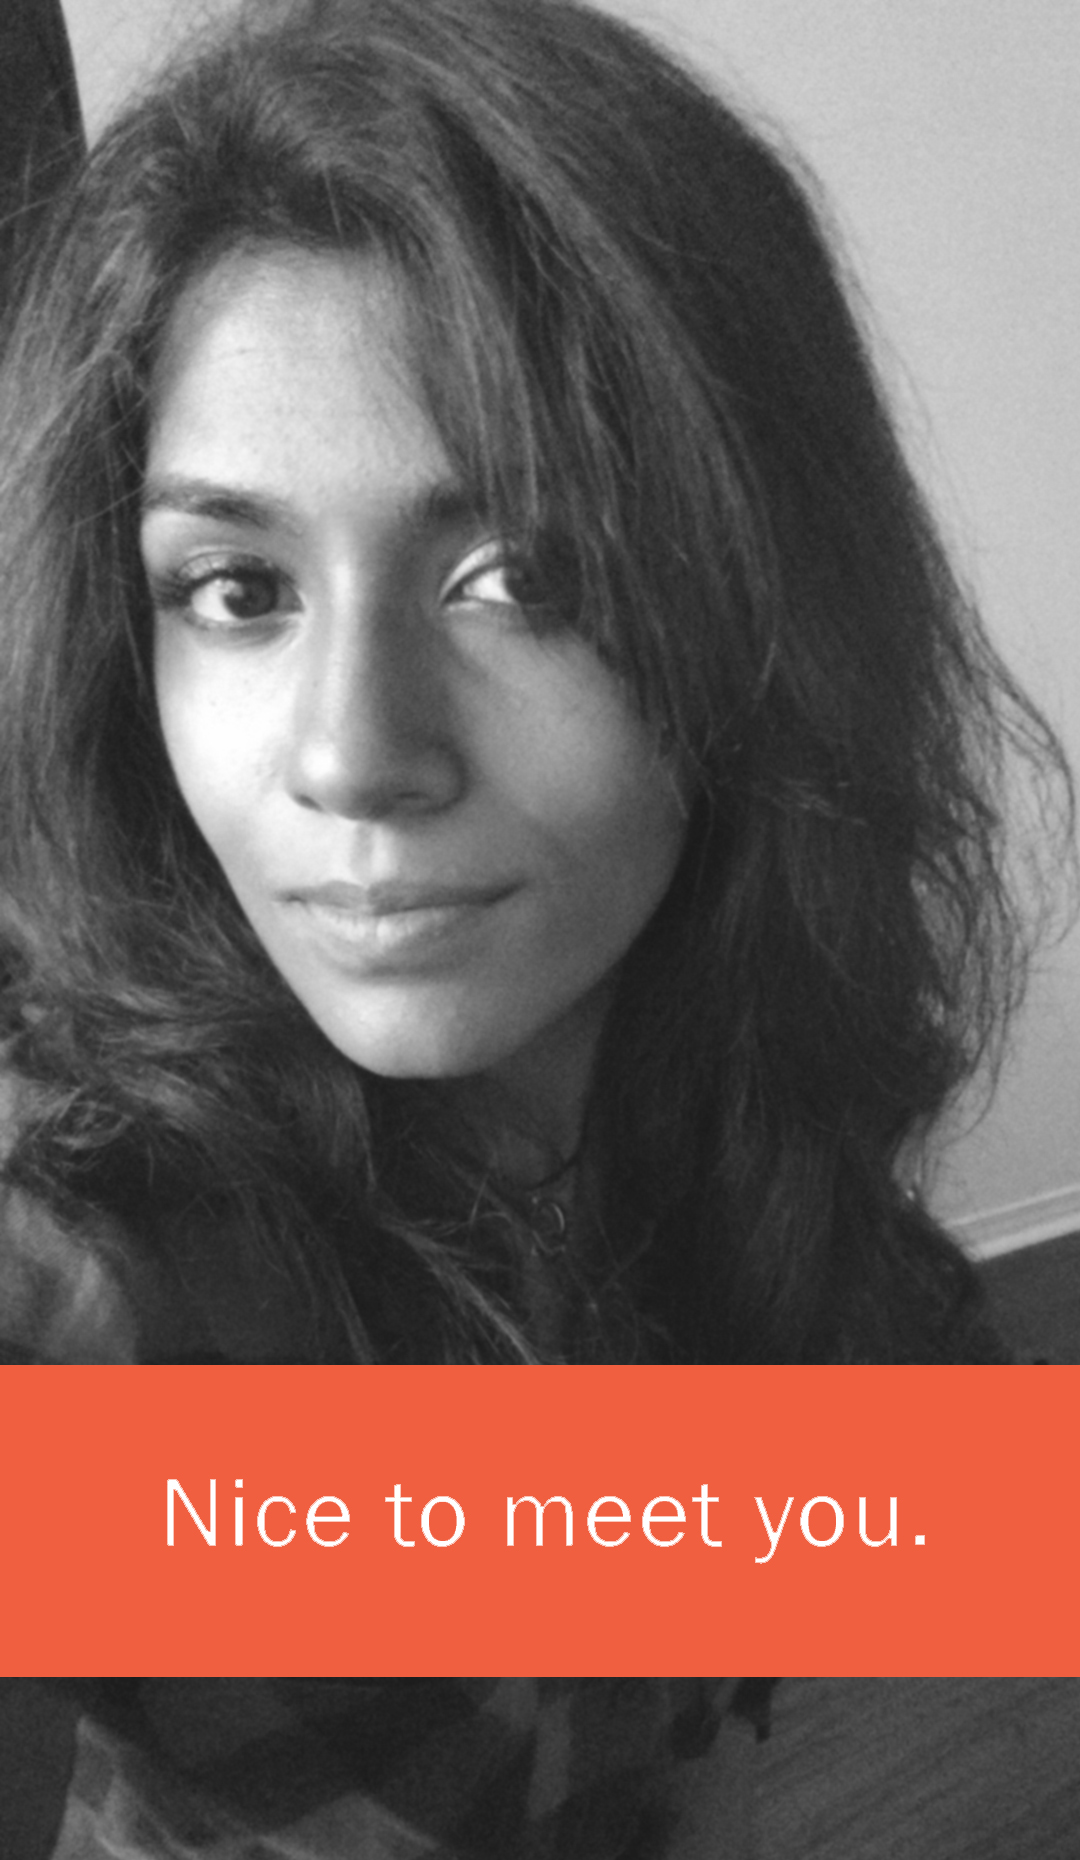
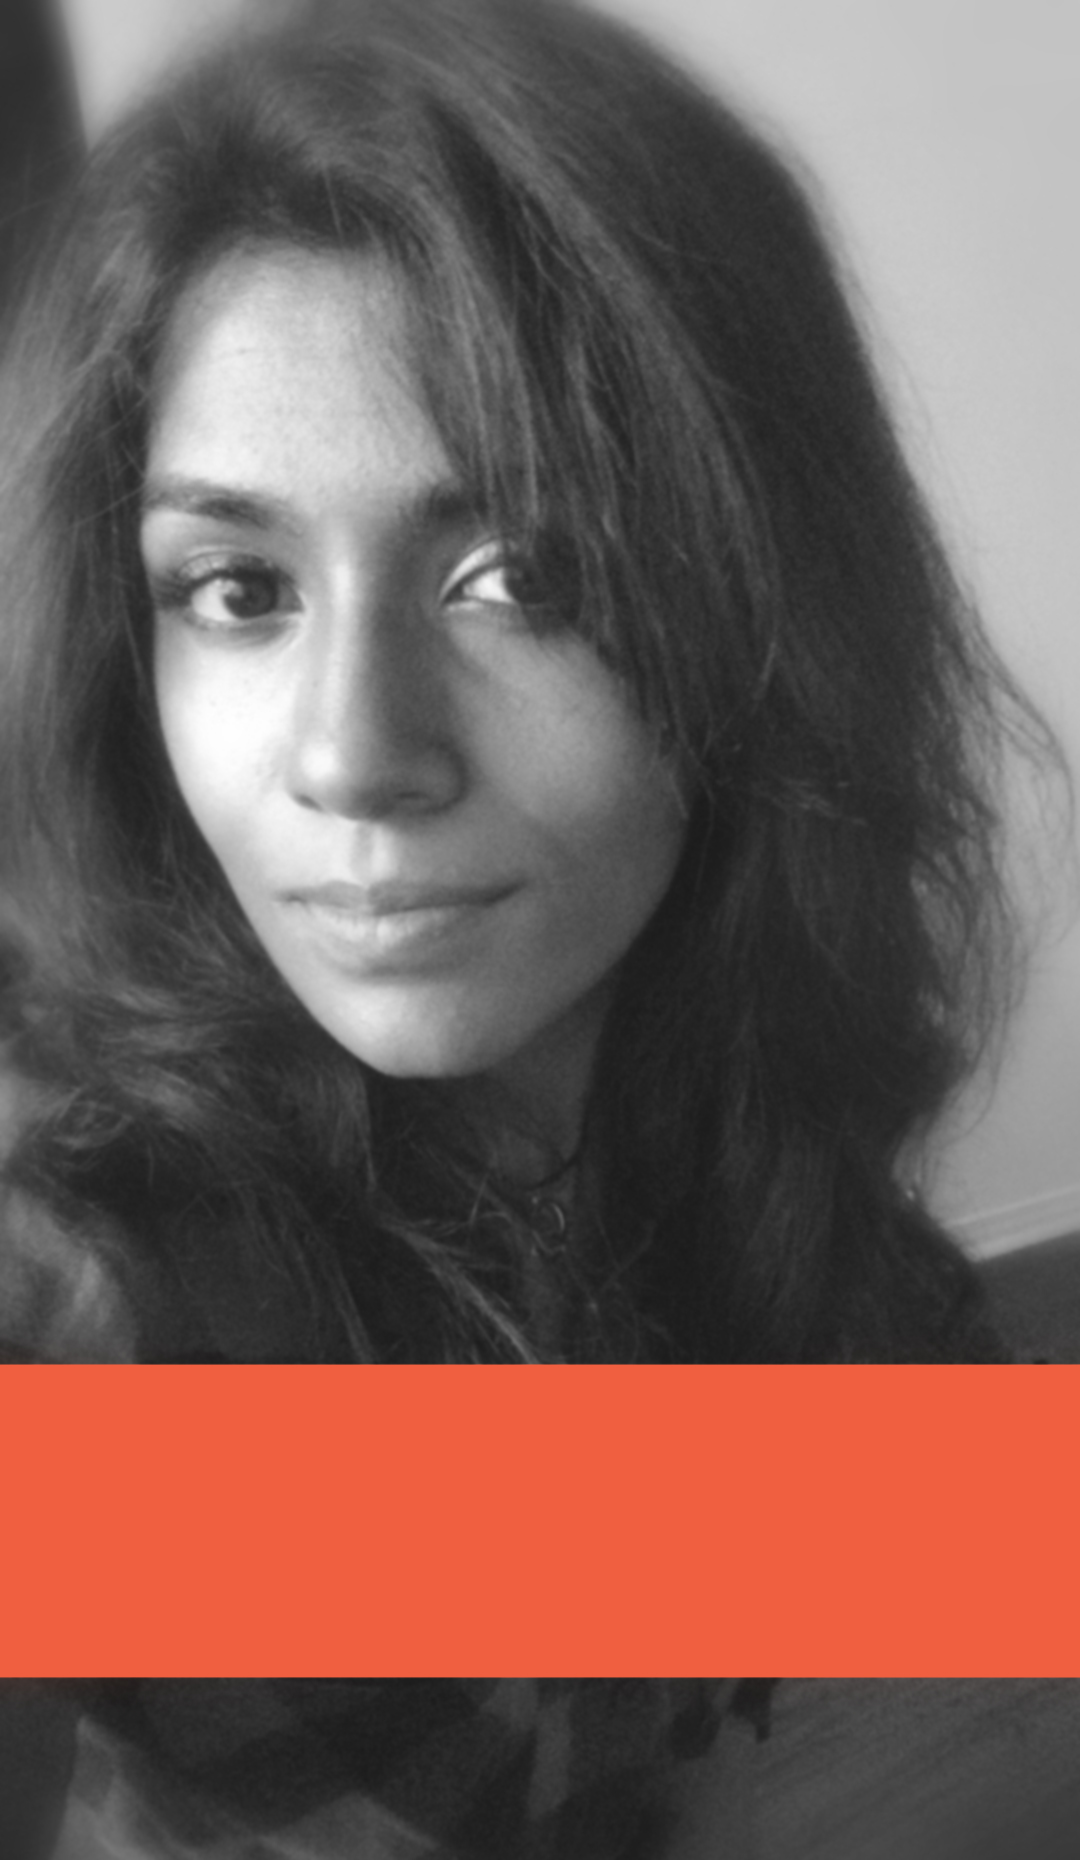
edited about me

diff --git a/index.html b/index.html
@@ -81,11 +81,8 @@
     <header>
         <div class="header-content">
             <div class="header-content-inner">
-				<div class = "nameTitle">
-				<h1>Jessica Nahulan</h1>
-				</div>
 				<div class="animated bounceInLeft">
-                <h2 id="homeHeading" >The notes of an eccentric coding enthusiast </br> <h3>(and a lover of chocolate chip cookies.)</h3> </h21>
+                <h1 id="homeHeading" >The notes of an eccentric coding enthusiast </br> <h3>(and a lover of chocolate chip cookies.)</h3> </h1>
 				</div>
                 <hr>
                 <p>Hi there! My name is Jessica Nahulan, I'm an undergraduate student at Queen's University. On the road to finishing up my Computer Engineering degree, I've found myself completing a 16 month internship at Embross before returning for my final year.</br> ... and here we are.</p>
@@ -99,34 +96,52 @@
         </div>
     </header> 
 
-    <section class="bg-primary" id="about">
-        <div class="container">
-            <div class="row">
-			
-                <div class="col-lg-8 col-lg-offset-2 text-center">
-                    <h2 class="section-heading">"Always code as if the guy who ends up maintaining your code will be a violent psychopath who knows where you live."
-					</br>
-					<span style= text-align:right padding-right:1em> <h4><i>- Martin Golding</i></h4> </span>
-					</br>
-					</h2>
-                    <hr class="light">
-                    <p class="text-faded">If that quote doesn't inspire greatness, I don't know what does. (Or at the very least, perhaps, inspire impecable coding habbits? Who does not love consistent indentation and documentation xml comments</p>
-                   <!-- <a href="#services" class="page-scroll btn btn-default btn-xl sr-button">Moving on.</a> -->
-                </div>
-            </div>
-			
-			<div class="container-ball" id ="ballzContains">			
-			  <div id="ballz1"></div>
-			  <div id="ballz2"></div>
-			  <div id="ballz3"></div>
-			  <div id="ballz4"></div>
-			  <div id="ballz5"></div>
-			  <div id="ballz6"></div>
-			  <div id="ballz7"></div>			
+    <div class="bg-primary" id="about">
+	
+        <!--<div class="container">-->
+         <div class="row">
+			<div class = "col-xs-3 col-sm-3">
+			<div><span><img src="img/self-portrait1.jpg" style="width:90%; align:left;position: relative; align:right;"></span></div>
+			<div><span><h1 id="portraitText" style="position:relative; visibility:hidden; marg; margin-bottom:1em; margin-right:1em;">Nice to meet you.</h1></span></div>
+			<div><span><img src="img/self-portrait3.jpg" style="width:90%; align:left;position: relative; align:right;"></span></div>
+			</div>			
+			<section>
+			<div class = "col-xs-9 col-sm-9">
+				<div>
+					<div class="col-lg-12 col-lg-offset-0 text-left">
+						<h1 class="section-heading">Me?
+						</br>
+						</br>
+						</h1>
+						<div class="hrAbout col-lg-12 light"> </div>
+						</br></br>
+						<h3 class="text-faded">I'm a soon to be computer engineer, living in the oh so small town of Kingston, Ontario, Canada.</br></br>
+						I specialize in software, with a lot of experience working as a full stack developer.</br></br>
+						Fluent in C++, C#, C, Java, HTML5, CSS3, javascript and improving on my PHP, SQL, jQuery, and python every day.</br></br>
+						I have a knack for adapting to new APIs and SDKs which I acquired through taking on various side projects.</br></br>
+						Currently in my spare time, I've been learning more about machine learning, unity, and Google's new DayDream VR.</br></br>
+						When I'm not programming, you can usually find me at the gym or painting digital artworks with my tablet. (I love art.)
+					   <!-- <a href="#services" class="page-scroll btn btn-default btn-xl sr-button">Moving on.</a> -->
+					   </div>
+					   <div class="col-lg-12 col-lg-offset-0 text-left">
+						<div class="container-ball" id ="ballzContains">			
+						  <div id="ballz1"></div>
+						  <div id="ballz2"></div>
+						  <div id="ballz3"></div>
+						  <div id="ballz4"></div>
+						  <div id="ballz5"></div>
+						  <div id="ballz6"></div>
+						  <div id="ballz7"></div>			
+						</div>
+					</div>					
+				</div>
+			<!---balls were here--->
+			</section>
 			</div>
-        </div>
-		<span><img src="img/self-portrait.jpg" style="width:16.3%; display:inline-block; align:left; top:64.5em; position: absolute;"></span>
-    </section>
+		</div>
+   <!--     </div>-->
+		
+    </div>
 	
 <!---
 	<div class="bg-interactive">
@@ -149,54 +164,11 @@
 	</div>	--->
 	
 	<div class="bg-interactive-blank"></div>
+	
 	<!--
 	<div class="col-lg-8 col-lg-offset-2 text-center">
 		<a href="#services"  class="page-scroll btn btn-default btn-lower btn-xl sr-button">Moving on.</a>
 	</div>-->
-    <section id="services">
-        <div class="container">
-            <div class="row">
-                <div class="col-lg-12 text-center">
-                    <h2 class="section-heading">At Your Service</h2>
-                    <hr class="primary">
-                </div>
-            </div>
-        </div>
-        <div class="container">
-            <div class="row">
-                <div class="col-lg-3 col-md-6 text-center">
-                    <div class="service-box">
-                        <i class="fa fa-4x fa-code text-primary sr-icons"></i>
-                        <h3>Github Repository</h3>
-                        <p class="text-muted">View my code repository to see what I've been working on.</p>
-                    </div>
-                </div>
-                <div class="col-lg-3 col-md-6 text-center">
-                    <div class="service-box">
-                        <i class="fa fa-4x fa-laptop text-primary sr-icons"></i>
-                        <h3>FaceBook</h3>
-                        <p class="text-muted">Responsive Design</p>
-                    </div>
-                </div>
-                <div class="col-lg-3 col-md-6 text-center">
-                    <div class="service-box">
-                        <i class="fa fa-4x fa-linkedin-square text-primary sr-icons"></i>
-                        <h3>Linkedin</h3>
-                        <p class="text-muted">Connect on linkedin.</p>
-                    </div>
-                </div>
-                <div class="col-lg-3 col-md-6 text-center">
-                    <div class="service-box">
-                     <!---   <i class="fa fa-4x fa-heart text-primary sr-icons"></i> --->
-                        <i class="fa fa-lock fa-4x fa-inverse sr-icons text-primary"></i>
-                        <h3>Web Security</h3>
-                        <p class="text-muted">You have to make your websites with love these days!</p>
-                    </div>
-                </div>
-            </div>
-        </div>
-    </section>
-
 	
 	    <!-- Portfolio Grid Section -->
     <section id="portfolio" class="bg-light-gray">
@@ -479,6 +451,51 @@
         </div>
     </div>
 	
+	
+    <section id="services">
+        <div class="container">
+            <div class="row">
+                <div class="col-lg-12 text-center">
+                    <h2 class="section-heading">Art means so much to me.</h2>
+                    <hr class="primary">
+                </div>
+            </div>
+        </div><!---
+        <div class="container">
+            <div class="row">
+                <div class="col-lg-3 col-md-6 text-center">
+                    <div class="service-box">
+                        <i class="fa fa-4x fa-code text-primary sr-icons"></i>
+                        <h3>Github Repository</h3>
+                        <p class="text-muted">View my code repository to see what I've been working on.</p>
+                    </div>
+                </div>
+                <div class="col-lg-3 col-md-6 text-center">
+                    <div class="service-box">
+                        <i class="fa fa-4x fa-laptop text-primary sr-icons"></i>
+                        <h3>FaceBook</h3>
+                        <p class="text-muted">Responsive Design</p>
+                    </div>
+                </div>
+                <div class="col-lg-3 col-md-6 text-center">
+                    <div class="service-box">
+                        <i class="fa fa-4x fa-linkedin-square text-primary sr-icons"></i>
+                        <h3>Linkedin</h3>
+                        <p class="text-muted">Connect on linkedin.</p>
+                    </div>
+                </div>
+                <div class="col-lg-3 col-md-6 text-center">
+                    <div class="service-box">
+                     <!---   <i class="fa fa-4x fa-heart text-primary sr-icons"></i> --->
+    <!--                    <i class="fa fa-lock fa-4x fa-inverse sr-icons text-primary"></i>
+                        <h3>Web Security</h3>
+                        <p class="text-muted">You have to make your websites with love these days!</p>
+                    </div>
+                </div>
+            </div>
+        </div> --->
+    </section>
+	
 	<!---
     <section class="no-padding" id="portfolio">
         <div class="container-fluid">
@@ -555,6 +572,24 @@
             </div>
         </div>
     </aside>
+	
+	    <section class="bg-primary" id="about">
+        <div class="container">
+            <div class="row">
+			
+                <div class="col-lg-8 col-lg-offset-2 text-center">
+                    <h2 class="section-heading">"Always code as if the guy who ends up maintaining your code will be a violent psychopath who knows where you live."
+					</br>
+					<span style= text-align:right padding-right:1em> <h4><i>- Martin Golding</i></h4> </span>
+					</br>
+					</h2>
+                    <hr class="light">
+                    <p class="text-faded">If that quote doesn't inspire greatness, I don't know what does. (Or at the very least, perhaps, inspire impecable coding habbits? Who does not love consistent indentation and documentation comments?)</p>
+                </div>
+            </div>
+        </div>
+		<!--<span><img src="img/self-portrait.jpg" style="width:16.3%; display:inline-block; align:left; top:64.5em; position: absolute;"></span>--->
+    </section>
 
     <section id="contact">
         <div class="container">
@@ -564,14 +599,34 @@
                     <hr class="primary">
                     <p>I'd love to hear from you.</p>
                 </div>
-                <div class="col-lg-4 col-lg-offset-2 text-center">
-                    <i class="fa fa-phone fa-3x sr-contact"></i>
-                    <p>123-456-6789</p>
+                <div class="col-lg-4 col-md-6 text-center">
+					<a href="https://github.com/JessNah" style="color:black" target="_blank">
+						<div class="service-box">
+							<i class="fa fa-4x fa-code text-primary sr-icons" ></i>
+							<h3>Github Repository</h3>
+							<p class="text-muted">View my code repository to see what I've been working on.</p>
+						</div>
+					</a>
                 </div>
-                <div class="col-lg-4 text-center">
-                    <i class="fa fa-envelope-o fa-3x sr-contact"></i>
-                    <p><a href="mailto:your-email@your-domain.com">feedback@startbootstrap.com</a></p>
+                <div class="col-lg-4 col-md-6 text-center">
+					<a href="https://ca.linkedin.com/in/jessicanahulan" style="color:black" target="_blank">
+						<div class="service-box">
+							<i class="fa fa-4x fa-linkedin-square text-primary sr-icons"></i>
+							<h3>Linkedin</h3>
+							<p class="text-muted">Connect on linkedin.</p>
+						</div>
+					</a>					
                 </div>
+                <div class="col-lg-4 col-md-6 text-center" target="_blank">
+					<a href="mailto:jess.n169@gmail.com"  style="color:black">
+						<div class="service-box">
+						 <!---   <i class="fa fa-4x fa-heart text-primary sr-icons"></i> --->
+							<i class="fa fa-envelope-o fa-4x fa-inverse sr-icons text-primary"></i>
+							<h3>Email</h3>
+							<p class="text-muted">Send me a mail. I'll respond as soon as possible.</p>
+						</div>
+					</div>
+				</a>
             </div>
         </div>
     </section>

diff --git a/js/myScript.js b/js/myScript.js
@@ -25,23 +25,31 @@ function myFunction() {
 	   document.getElementById("ballz5").className = "ball";
 	   document.getElementById("ballz6").className = "ball";
 	   document.getElementById("ballz7").className = "ball";
+	   setTimeout(portraitTextAppear, 1000);
+	   
 	}
 	if ((document.body.scrollTop > 920 || document.documentElement.scrollTop > 920) && dotsAnimated == true && dropped == false) {
 	   dropped = true;
 	   document.getElementById("ballzContains").className = "dropped1";
-	   setTimeout(myFunction3, 1500);
+	   setTimeout(hideBalls, 1500);
 	}
 }
 
 
-function myFunction3() {    
+function hideBalls() {    
 	   document.getElementById("ballzContains").style.visibility = "hidden";
+}
+
+function portraitTextAppear() { 
+	   document.getElementById("portraitText").style.visibility = "visible";
+	   document.getElementById("portraitText").className = "animated bounceInLeft text-center";
 }
 
 
 function myFunction2() {    
 	   document.getElementById("spaceText").style.visibility = "visible";
 }
+
 
 
 })(jQuery); // End of use strict

diff --git a/css/style.css b/css/style.css
@@ -2,13 +2,13 @@
 
 
 .container-ball {
-    width: 600px;
     height: 5px;
     padding-top: 20px;
     margin: 0 auto;
 	position: relative;
-	word-spacing: 50px;
+	word-spacing: 120px;
 	text-align:center;
+	margin-top:2em;
 }
 
 .img-centered {
@@ -22,8 +22,9 @@
 }
 
 .ball {
-    width: 20px;
-    height: 20px;
+    width: 15px;
+    height: 4px;
+	padding-left:50px;
     border-radius: 30px;
 }
 
@@ -92,14 +93,13 @@
 }
 
 .dropped1{	    
-    width: 600px;
     height: 5px;
     padding-top: 20px;
     margin: 0 auto;
 	position: relative;
-	word-spacing: 50px;
+	word-spacing: 120px;
 	text-align:center;
-	word-spacing: 50px;
+	margin-top:2em;
 	-webkit-animation: drop-b 3s  forwards;
     -moz-animation: drop-b 3s  forwards;
     animation: drop-b 3s forwards ;	
@@ -192,12 +192,6 @@
     100% {
         transform: translateY(15px);
     }
-}
-
-.nameTitle{
-	
-	
-	
 }
 
 

diff --git a/css/creative.css b/css/creative.css
@@ -16,9 +16,18 @@ hr {
   border-width: 3px;
   max-width: 50px;
 }
+.hrAbout {
+  margin-left: 0.5em;
+  border-bottom: 3px solid rgba(255,255,255,.25);
+  border-color: #FFFFFF;
+  border-width: 3px;
+  max-width: 50px;
+}
+
 hr.light {
   border-color: white;
 }
+
 a {
   -webkit-transition: all 0.35s;
   -moz-transition: all 0.35s;
